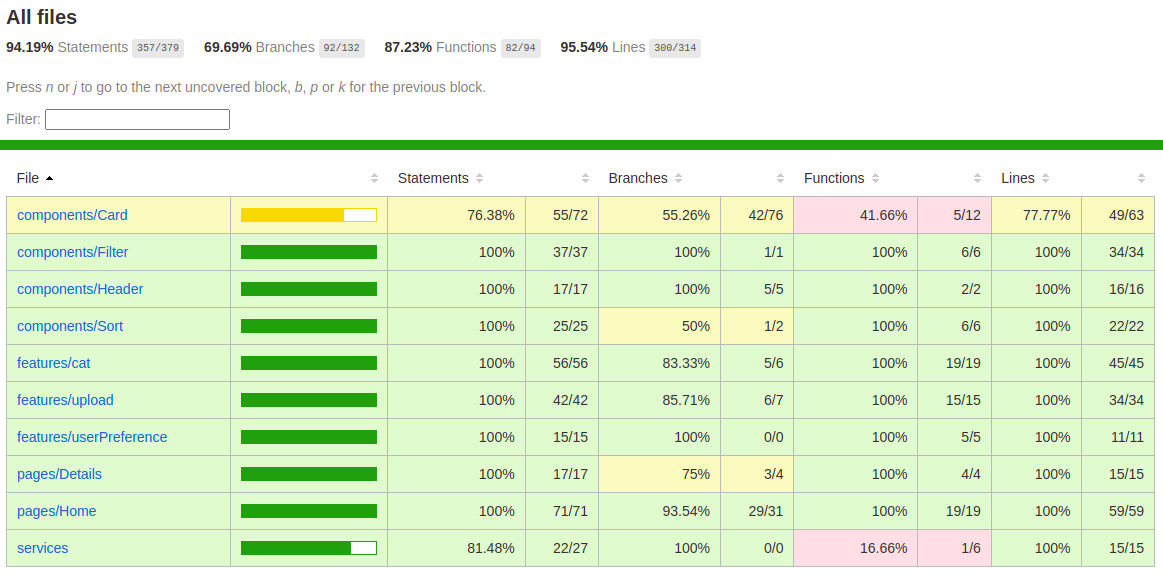
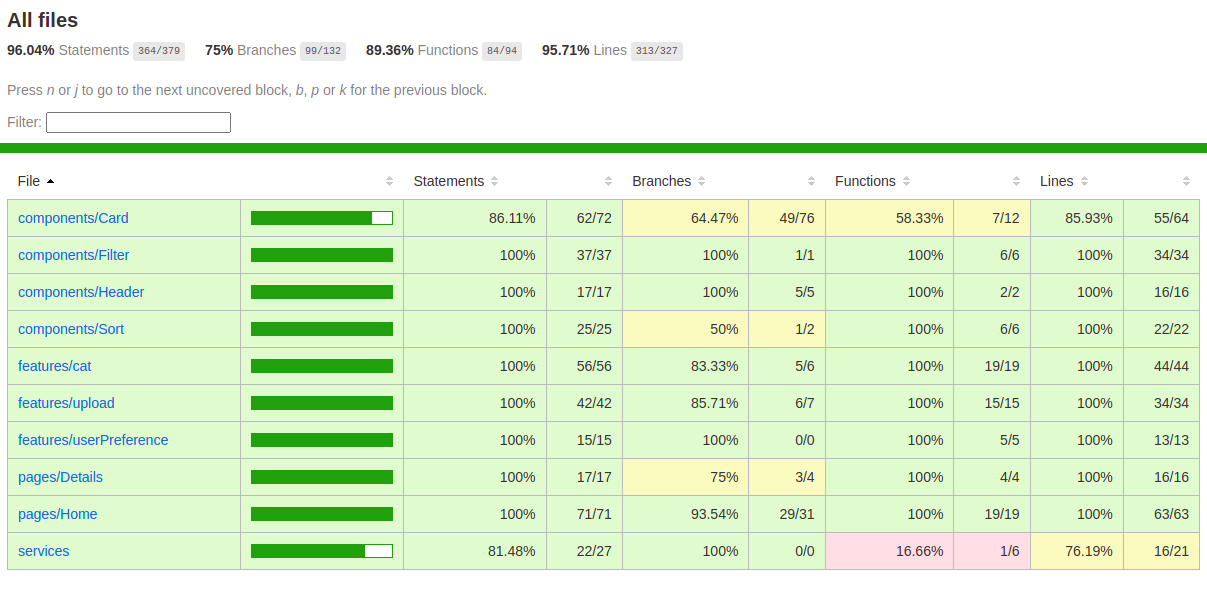
add tests for card

diff --git a/src/components/Card/Card.test.tsx b/src/components/Card/Card.test.tsx
@@ -1,0 +1,82 @@
+import { fireEvent, screen, act } from '@testing-library/react';
+import { renderWithProviders } from '../../__tests__/utils';
+import MOCK_BREEDS from '../../__tests__/MOCK_BREEDS.json';
+import Card from '.';
+import * as CatReducer from '../../features/cat/catSlice';
+import * as UploadReducer from '../../features/upload/uploadSlice';
+import { store } from '../../app/store';
+import * as Hooks from '../../app/hooks';
+
+describe('Card', () => {
+  const breeds = MOCK_BREEDS.slice(0, 1);
+
+  test('should handle delete favorite', async () => {
+    const favouriteId = 101333746;
+    const deleteFavorite = jest.fn();
+    jest
+      .spyOn(CatReducer, 'deleteFavorite')
+      .mockImplementation((args: any) => deleteFavorite(args));
+
+    renderWithProviders(
+      <Card
+        {...breeds[0]}
+        favouriteId={favouriteId}
+        isFavourite={true}
+        expanded={false}
+      />
+    );
+
+    act(() => fireEvent.click(screen.getByTestId('FavoriteIcon')));
+
+    expect(deleteFavorite).toHaveBeenCalledTimes(1);
+    expect(deleteFavorite).toHaveBeenCalledWith(favouriteId);
+  });
+
+  test('should handle favorite item', async () => {
+    const postFavorite = jest.fn();
+    jest
+      .spyOn(CatReducer, 'postFavorite')
+      .mockImplementation((args: any) => postFavorite(args));
+
+    renderWithProviders(
+      <Card {...breeds[0]} isFavourite={false} expanded={false} />
+    );
+
+    act(() => fireEvent.click(screen.getByTestId('FavoriteIcon')));
+
+    expect(postFavorite).toHaveBeenCalledTimes(1);
+    expect(postFavorite).toHaveBeenCalledWith('0XYvRd7oD');
+  });
+
+  test('should clean erros on mount', async () => {
+    const dispatch = jest.fn();
+    const cleanErrors = jest.fn();
+    const initialState = store.getState();
+    const preloadedState = {
+      ...initialState,
+      upload: {
+        ...initialState.upload,
+        error: 'something went wrong',
+      },
+    };
+
+    const uploadSpy = jest
+      .spyOn(UploadReducer, 'cleanErrors')
+      .mockImplementation((args: any) => cleanErrors(args));
+
+    const hooksSpy = jest
+      .spyOn(Hooks, 'useAppDispatch')
+      .mockImplementation(() => (args: any) => dispatch(args));
+
+    renderWithProviders(
+      <Card {...breeds[0]} isFavourite={false} expanded={false} />,
+      { preloadedState }
+    );
+
+    expect(cleanErrors).toHaveBeenCalledTimes(1);
+    expect(screen.queryByText('something went wrong')).toBeNull();
+
+    hooksSpy.mockRestore();
+    uploadSpy.mockRestore();
+  });
+});

diff --git a/src/components/Card/index.tsx b/src/components/Card/index.tsx
@@ -165,6 +165,7 @@ const CardDetails: React.FC<CardDetailsProps> = ({
               disabled={uploadStatus === 'loading'}
               type="file"
               name="file"
+              data-testid="input-image"
               onChange={handleSelectNewImage}
             />
             <Button
